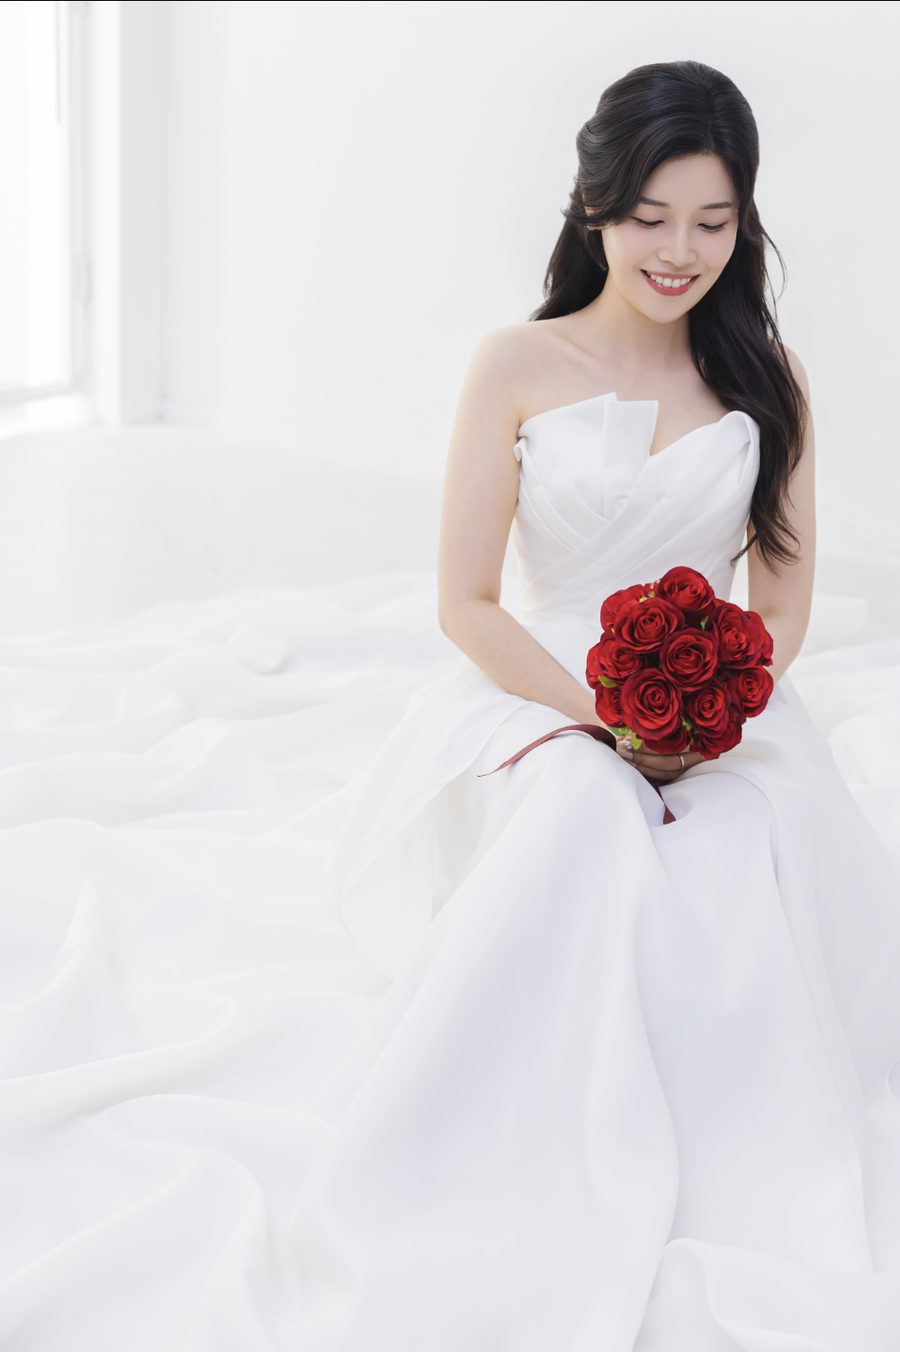
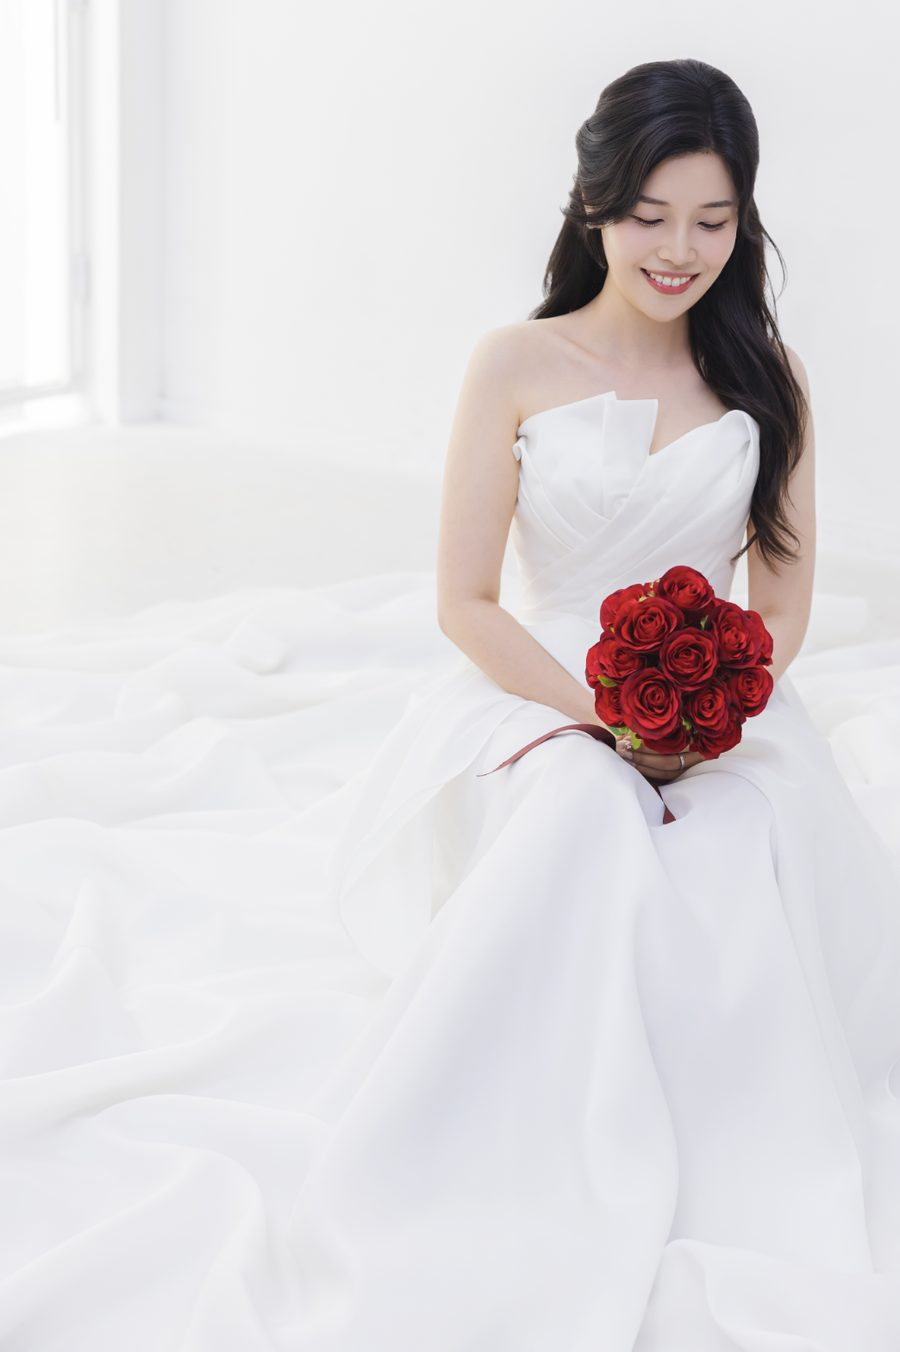
Replace red-bouquet photo with retake (black bar at top removed)

diff --git a/build_assets.py b/build_assets.py
@@ -32,7 +32,7 @@ ORDER = [
     (A("_03"), "화이트 스튜디오 - 케이크와 함께"),
     # 화이트 스튜디오 (레드 부케)
     (A("_12"), "화이트 스튜디오 - 드레스 전신"),          # ← 가로 사진
-    (A("_13"), "화이트 스튜디오 - 레드 부케"),
+    (os.path.join(SRC, "KakaoTalk_20260909_213739064.png"), "화이트 스튜디오 - 레드 부케"),   # _13 교체본 (상단 검은 줄 제거)
     (A("_14"), "화이트 홀 - 머메이드 드레스"),
     # 아이보리 수트 + 옐로 드레스
     (B("_02"), "아이보리 수트 - 두 사람"),
